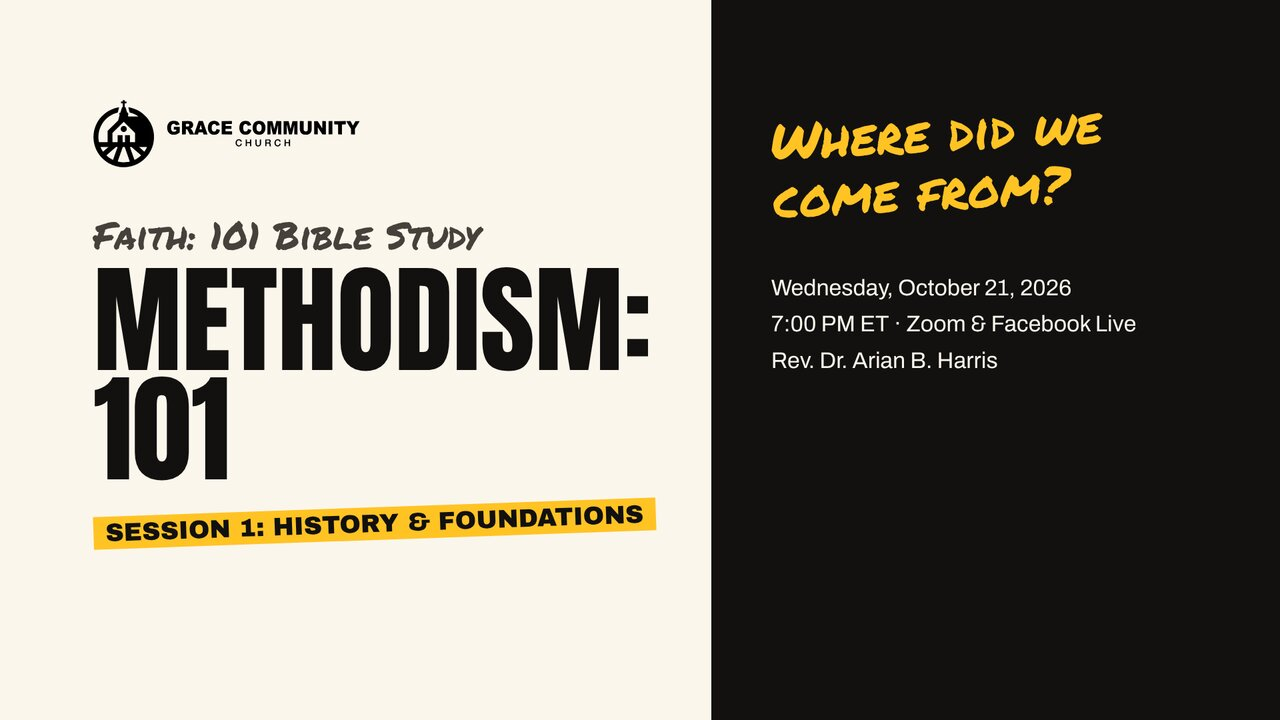
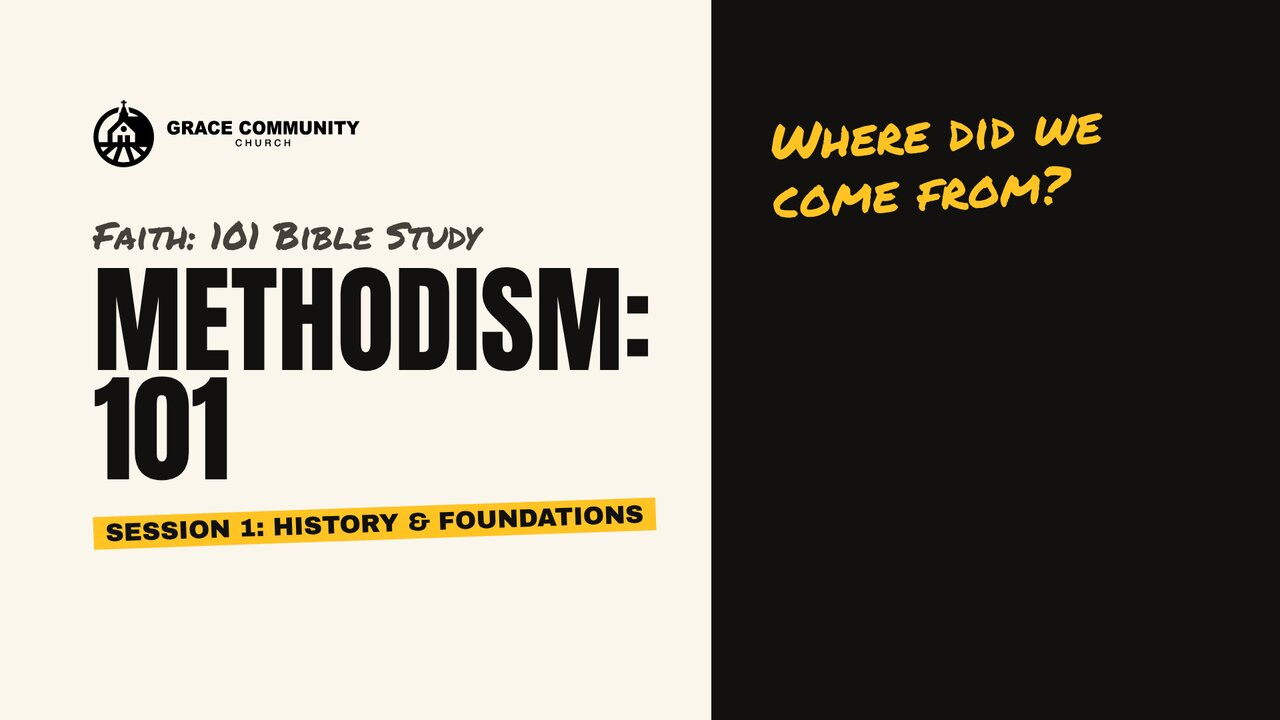
2026-11-09: Bible study - Methodism 101 Session 1 as last week's lesson (Nov 4)

Changed region(s): [[0.5938, 0.3667, 0.9062, 0.4583], [0.5938, 0.4889, 0.7812, 0.5194]]

diff --git a/index.html b/index.html
@@ -348,7 +348,7 @@
           </div>
           <a class="bs-flyer" href="images/bible-study-weekly.jpg" target="_blank" rel="noopener" aria-label="Open the Bible study graphic full size (opens in a new tab)"><img src="images/bible-study-weekly.jpg" width="1080" height="1080" alt="Bible Study. All are welcome! Bring a friend, your Bible and your questions. Every Wednesday at 7:00 PM ET on Zoom and Facebook Live. Zoom Meeting ID 880 2297 9559, passcode 19061906." loading="lazy" decoding="async"></a>
         </div>
-        <!-- This week's lesson (no video): change the slide image, title, line under it, and the two PDF links (3 places) -->
+        <!-- Last week's lesson (no video): change the slide image, title, date line, and the two PDF links (3 places) -->
         <div class="bs-row bs-watch">
           <div class="video">
             <a class="video-poster" href="/biblestudy/thisweek/methodism101-session1-slides.pdf" target="_blank" rel="noopener" aria-label="Open the slides for Methodism: 101, Session 1: History &amp; Foundations (PDF, opens in a new tab)">
@@ -357,10 +357,10 @@
             </a>
           </div>
           <div class="sermon-copy">
-            <p class="label">This week’s lesson</p>
+            <p class="label">Last week’s Bible study</p>
             <h4 class="bs-title">Methodism: 101, Session&nbsp;1: History &amp; Foundations</h4>
-            <p class="ref">Faith: 101 Bible study&nbsp;· Rev. Dr. Arian B. Harris</p>
-            <p>Where did we come from? Open the slides to follow along, and print the student guide to fill in the blanks as we go.</p>
+            <p class="ref">Wednesday, November&nbsp;4, 2026&nbsp;· Rev. Dr. Arian B. Harris</p>
+            <p>Missed Wednesday? Catch up with the slides and the student guide, then join us live next Wednesday at 7:00&nbsp;PM.</p>
             <div class="actions">
               <a class="btn" href="/biblestudy/thisweek/methodism101-session1-slides.pdf" target="_blank" rel="noopener">View the slides<span class="sr-only"> (PDF, opens in a new tab)</span></a>
               <a class="btn quiet" href="/biblestudy/thisweek/methodism101-session1-student-guide.pdf" target="_blank" rel="noopener">Download the student guide<span class="sr-only"> (PDF, opens in a new tab)</span></a>
